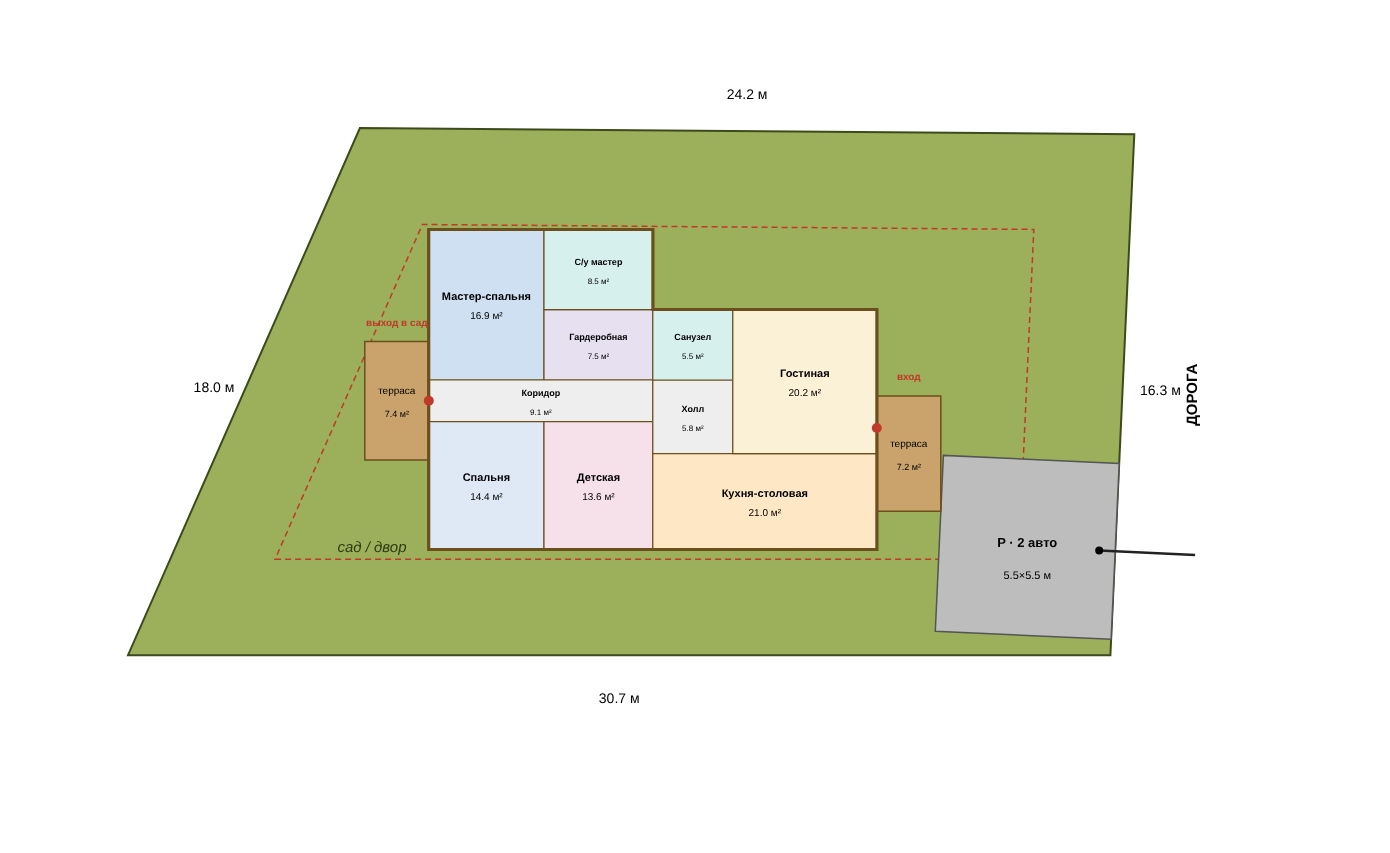
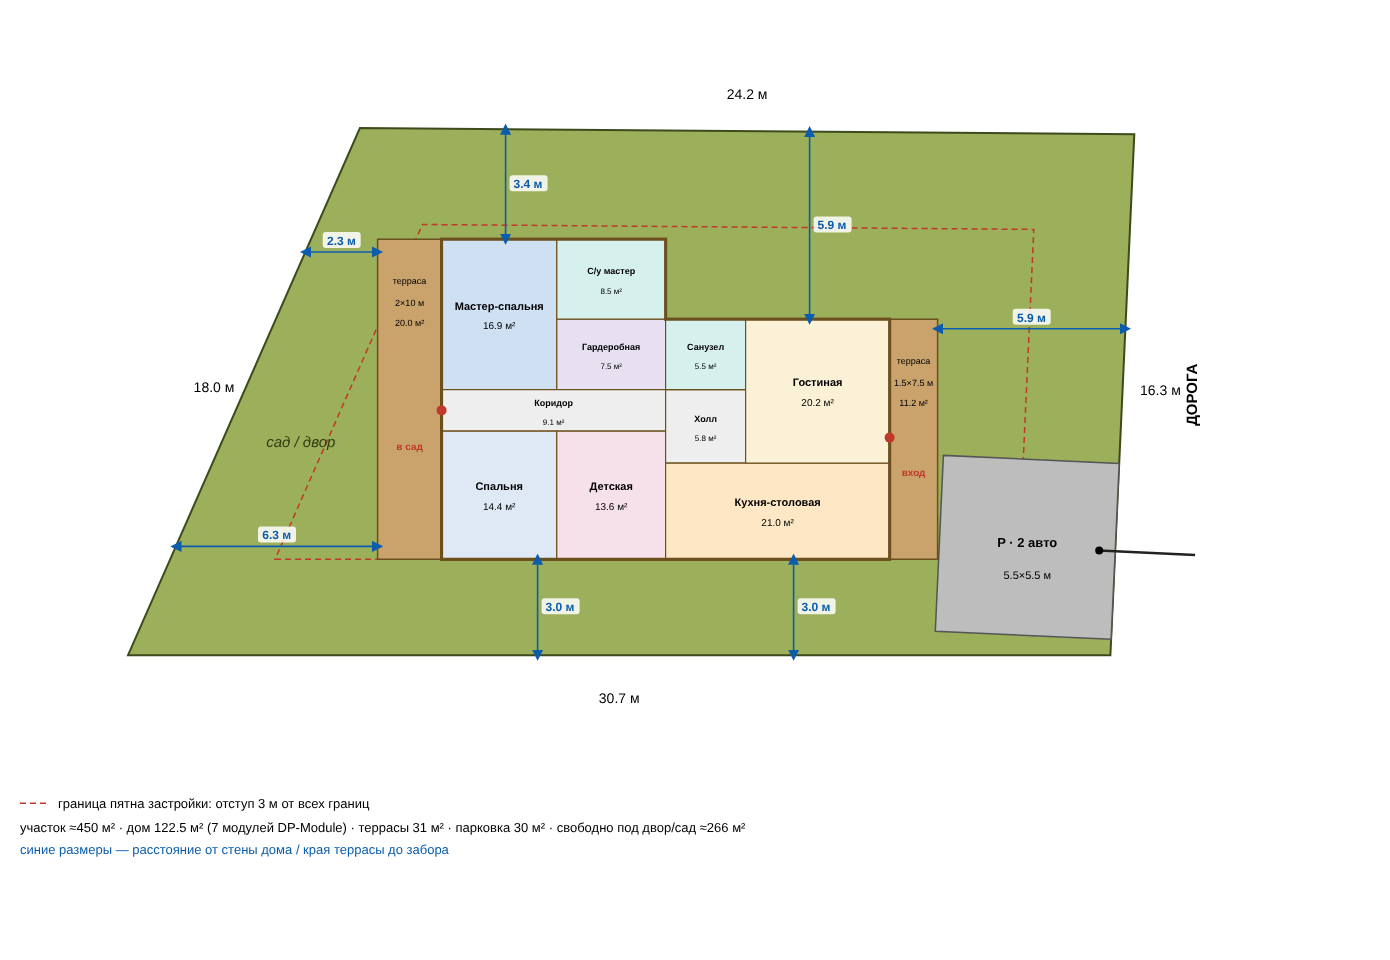
Террасы во всю ширину торцов, размеры до забора
Claude-Session: https://claude.ai/code/session_017tjZczqth6Lefs1XGWvp2u

diff --git a/plan.py b/plan.py
@@ -103,10 +103,10 @@ ROOMS = [
     ("Гостиная", 9.5, 3.0, 14.0, 7.5, "#fbf1d6"),
 ]
 TERRACES = [
-    ("терраса", 14.0, 1.2, 16.0, 4.8),   # у дороги, на стыке кухни-столовой и гостиной
-    ("терраса", -2.0, 2.8, 0.0, 6.5),    # в сад, на стыке спальни, коридора и мастер-спальни
+    ("терраса", 14.0, 0.0, 15.5, 7.5),   # у дороги, во всю стену кухни-столовой и гостиной
+    ("терраса", -2.0, 0.0, 0.0, 10.0),   # в сад, во всю стену спальни, коридора и мастер-спальни
 ]
-DOORS = [("вход", 14.0, 3.8, 15.0, 5.3), ("выход в сад", 0.0, 4.65, -1.0, 7.0)]
+DOORS = [("вход", 14.0, 3.8, 14.75, 2.6), ("в сад", 0.0, 4.65, -1.0, 3.4)]
 
 
 def overlap(p1, p2, gap=0.0):
@@ -190,9 +190,10 @@ ROOMS_SVG = []
 for name, x0, y0, x1, y1 in TERRACES:
     pts = lrect(x0, y0, x1, y1)
     ROOMS_SVG.append(poly_svg(pts, fill="#c9a36b", stroke="#6b4f1d", stroke_width=1.5))
-    c = centroid(pts)
-    ROOMS_SVG.append(text((c[0], c[1] + 0.2), name, 10))
-    ROOMS_SVG.append(text((c[0], c[1] - 0.5), f"{abs((x1 - x0) * (y1 - y0)):.1f} м²", 9))
+    c = local((x0 + x1) / 2, y1 - 1.6)
+    ROOMS_SVG.append(text((c[0], c[1] + 0.2), name, 9))
+    ROOMS_SVG.append(text((c[0], c[1] - 0.5), f"{abs(x1 - x0):g}×{abs(y1 - y0):g} м", 9))
+    ROOMS_SVG.append(text((c[0], c[1] - 1.1), f"{abs((x1 - x0) * (y1 - y0)):.1f} м²", 9))
 ROOMS_SVG.append(poly_svg(HOUSE, fill="#f3e6c8", stroke="#6b4f1d", stroke_width=3))
 for name, x0, y0, x1, y1, col in ROOMS:
     ROOMS_SVG.append(poly_svg(lrect(x0, y0, x1, y1), fill=col, stroke="#6b4f1d", stroke_width=1.2))
@@ -209,14 +210,62 @@ for name, X, Y, LX, LY in DOORS:
     if name:
         ROOMS_SVG.append(text(local(LX, LY), name, 10, fill="#c0392b", font_weight="bold"))
 
-W, H = (maxx - minx) * SC, (maxy - miny) * SC + 70
+def ray_to_fence(p, d):
+    """Точка пересечения луча p + k·d с границей участка (ближайшая)."""
+    best_k = None
+    for i in range(len(P)):
+        a, b = P[i], P[(i + 1) % len(P)]
+        ex, ey = b[0] - a[0], b[1] - a[1]
+        den = d[0] * ey - d[1] * ex
+        if abs(den) < 1e-12:
+            continue
+        k = ((a[0] - p[0]) * ey - (a[1] - p[1]) * ex) / den
+        m = ((a[0] - p[0]) * d[1] - (a[1] - p[1]) * d[0]) / den
+        if k > 1e-6 and -1e-9 <= m <= 1 + 1e-9 and (best_k is None or k < best_k):
+            best_k = k
+    return (p[0] + d[0] * best_k, p[1] + d[1] * best_k), best_k
+
+
+DIMS = [  # (точка в координатах дома, направление) — от стены/террасы до забора
+    ((-2.0, 0.4), (-1, 0)),    # сад-терраса, низ
+    ((-2.0, 9.6), (-1, 0)),    # сад-терраса, верх
+    ((3.0, 0.0), (0, -1)),     # спальни -> нижний забор
+    ((11.0, 0.0), (0, -1)),    # кухня -> нижний забор
+    ((2.0, 10.0), (0, 1)),     # мастер-блок -> верхний забор
+    ((11.5, 7.5), (0, 1)),     # гостиная -> верхний забор
+    ((15.5, 7.2), (1, 0)),     # терраса у дороги -> забор у дороги
+]
+DIM_SVG = []
+for (X, Y), d in DIMS:
+    p = local(X, Y)
+    q, dist = ray_to_fence(p, d)
+    (x1, y1), (x2, y2) = sv(p), sv(q)
+    DIM_SVG.append(f'<line x1="{x1:.1f}" y1="{y1:.1f}" x2="{x2:.1f}" y2="{y2:.1f}" stroke="#0b5cad" stroke-width="1.6" '
+                   f'marker-start="url(#arr)" marker-end="url(#arr)"/>')
+    mx, my = (x1 + x2) / 2, (y1 + y2) / 2
+    lbl = f"{dist:.1f} м"
+    if d[0] == 0:  # вертикальная размерная — подпись сбоку
+        DIM_SVG.append(f'<rect x="{mx + 4:.1f}" y="{my - 9:.1f}" width="{len(lbl) * 7.5:.0f}" height="16" rx="3" fill="#fff" opacity="0.85"/>'
+                       f'<text x="{mx + 8:.1f}" y="{my + 4:.1f}" font-size="12" font-weight="bold" fill="#0b5cad" font-family="sans-serif">{lbl}</text>')
+    else:
+        DIM_SVG.append(f'<rect x="{mx - len(lbl) * 3.75:.1f}" y="{my - 20:.1f}" width="{len(lbl) * 7.5:.0f}" height="16" rx="3" fill="#fff" opacity="0.85"/>'
+                       f'<text x="{mx:.1f}" y="{my - 7:.1f}" font-size="12" font-weight="bold" fill="#0b5cad" text-anchor="middle" font-family="sans-serif">{lbl}</text>')
+    print(f"размер от {X, Y} по {d}: {dist:.2f} м")
+
+TERR_AREA = sum(abs((t[3] - t[1]) * (t[4] - t[2])) for t in TERRACES)
+FREE = area(P) - HOUSE_AREA - TERR_AREA - PARK_W * PARK_D
+
+W, H = (maxx - minx) * SC, (maxy - miny) * SC + 90
 el = [
     f'<svg xmlns="http://www.w3.org/2000/svg" width="{W:.0f}" height="{H:.0f}" viewBox="0 0 {W:.0f} {H:.0f}">',
     f'<rect width="100%" height="100%" fill="#fff"/>',
     poly_svg(P, fill="#9caf5a", stroke="#3d4a1c", stroke_width=2),
     poly_svg(BUILD, fill="none", stroke="#c0392b", stroke_width=1.5, stroke_dasharray="6 4"),
     poly_svg(PARK, fill="#bdbdbd", stroke="#555", stroke_width=1.5),
+    '<defs><marker id="arr" viewBox="0 0 10 10" refX="5" refY="5" markerWidth="7" markerHeight="7" orient="auto-start-reverse">'
+    '<path d="M0,0 L10,5 L0,10 z" fill="#0b5cad"/></marker></defs>',
     *ROOMS_SVG,
+    *DIM_SVG,
     text(centroid(PARK), "P · 2 авто", 13, font_weight="bold"),
     text((centroid(PARK)[0], centroid(PARK)[1] - 1.0), f"{PARK_W:g}×{PARK_D:g} м", 11),
     text(mid(A, B, -1.5), f"{AB} м", 14),
@@ -229,13 +278,14 @@ mx, my = sv(mid(B, C)); el[-1] = f'<text x="{mx+38:.1f}" y="{my:.1f}" font-size=
 # стрелка въезда
 e1 = sv(to_xy(park_s + PARK_W / 2, -2.5)); e2 = sv(to_xy(park_s + PARK_W / 2, 0.5))
 el.append(f'<line x1="{e1[0]:.1f}" y1="{e1[1]:.1f}" x2="{e2[0]:.1f}" y2="{e2[1]:.1f}" stroke="#222" stroke-width="2.5"/><circle cx="{e2[0]:.1f}" cy="{e2[1]:.1f}" r="4"/>')
-garden = ((A[0] + D[0]) / 2 + 4, (A[1] + D[1]) / 2 - 5)
+garden = (5.4, 6.5)
 el.append(text(garden, "сад / двор", 15, fill="#2f3b12", font_style="italic"))
 y0 = (maxy - miny) * SC + 25
 el.append(f'<rect x="20" y="{y0-12}" width="28" height="0" stroke="#c0392b" stroke-dasharray="6 4" stroke-width="1.5"/>')
 el.append(f'<line x1="20" y1="{y0-5}" x2="50" y2="{y0-5}" stroke="#c0392b" stroke-dasharray="6 4" stroke-width="1.5"/>')
 el.append(f'<text x="58" y="{y0}" font-size="13" font-family="sans-serif">граница пятна застройки: отступ {SETBACK:g} м от всех границ</text>')
-el.append(f'<text x="20" y="{y0+24}" font-size="13" font-family="sans-serif">участок ≈{area(P):.0f} м² · дом {HOUSE_AREA:.1f} м² (7 модулей DP-Module) · застройка {HOUSE_AREA/area(P)*100:.0f}% · масштаб: 1 м = {SC}px</text>')
+el.append(f'<text x="20" y="{y0+24}" font-size="13" font-family="sans-serif">участок ≈{area(P):.0f} м² · дом {HOUSE_AREA:.1f} м² (7 модулей DP-Module) · террасы {TERR_AREA:.0f} м² · парковка {PARK_W*PARK_D:.0f} м² · свободно под двор/сад ≈{FREE:.0f} м²</text>')
+el.append(f'<text x="20" y="{y0+46}" font-size="13" fill="#0b5cad" font-family="sans-serif">синие размеры — расстояние от стены дома / края террасы до забора</text>')
 el.append("</svg>")
 open("plan.svg", "w").write("\n".join(el))
 
